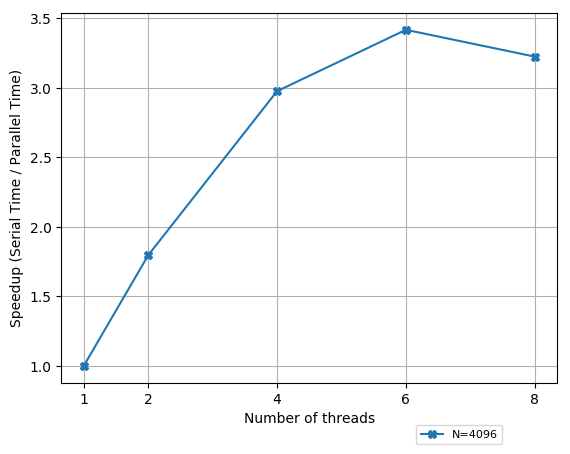
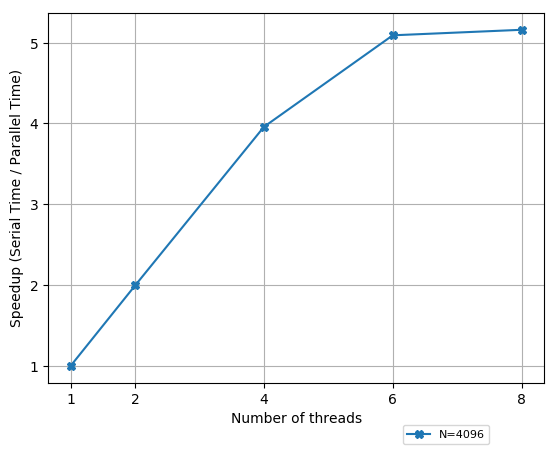
Parallelize outer loop and update metrics and graphs

diff --git a/ex1/solution/conway_gameoflife/Game_Of_Life.c b/ex1/solution/conway_gameoflife/Game_Of_Life.c
@@ -60,8 +60,8 @@ int main (int argc, char * argv[]) {
 
 	gettimeofday(&ts,NULL);
 	for ( t = 0 ; t < T ; t++ ) {
+		#pragma omp parallel for schedule(static) private(nbrs, j)
 		for ( i = 1 ; i < N - 1; i++ ) {
-			#pragma omp parallel for schedule(static) private(nbrs)
 			for ( j = 1; j < N - 1; j++ ) {
 				nbrs = previous[i+1][j+1] + previous[i+1][j] + previous[i+1][j-1] \
 					+ previous[i][j-1] + previous[i][j+1] \
